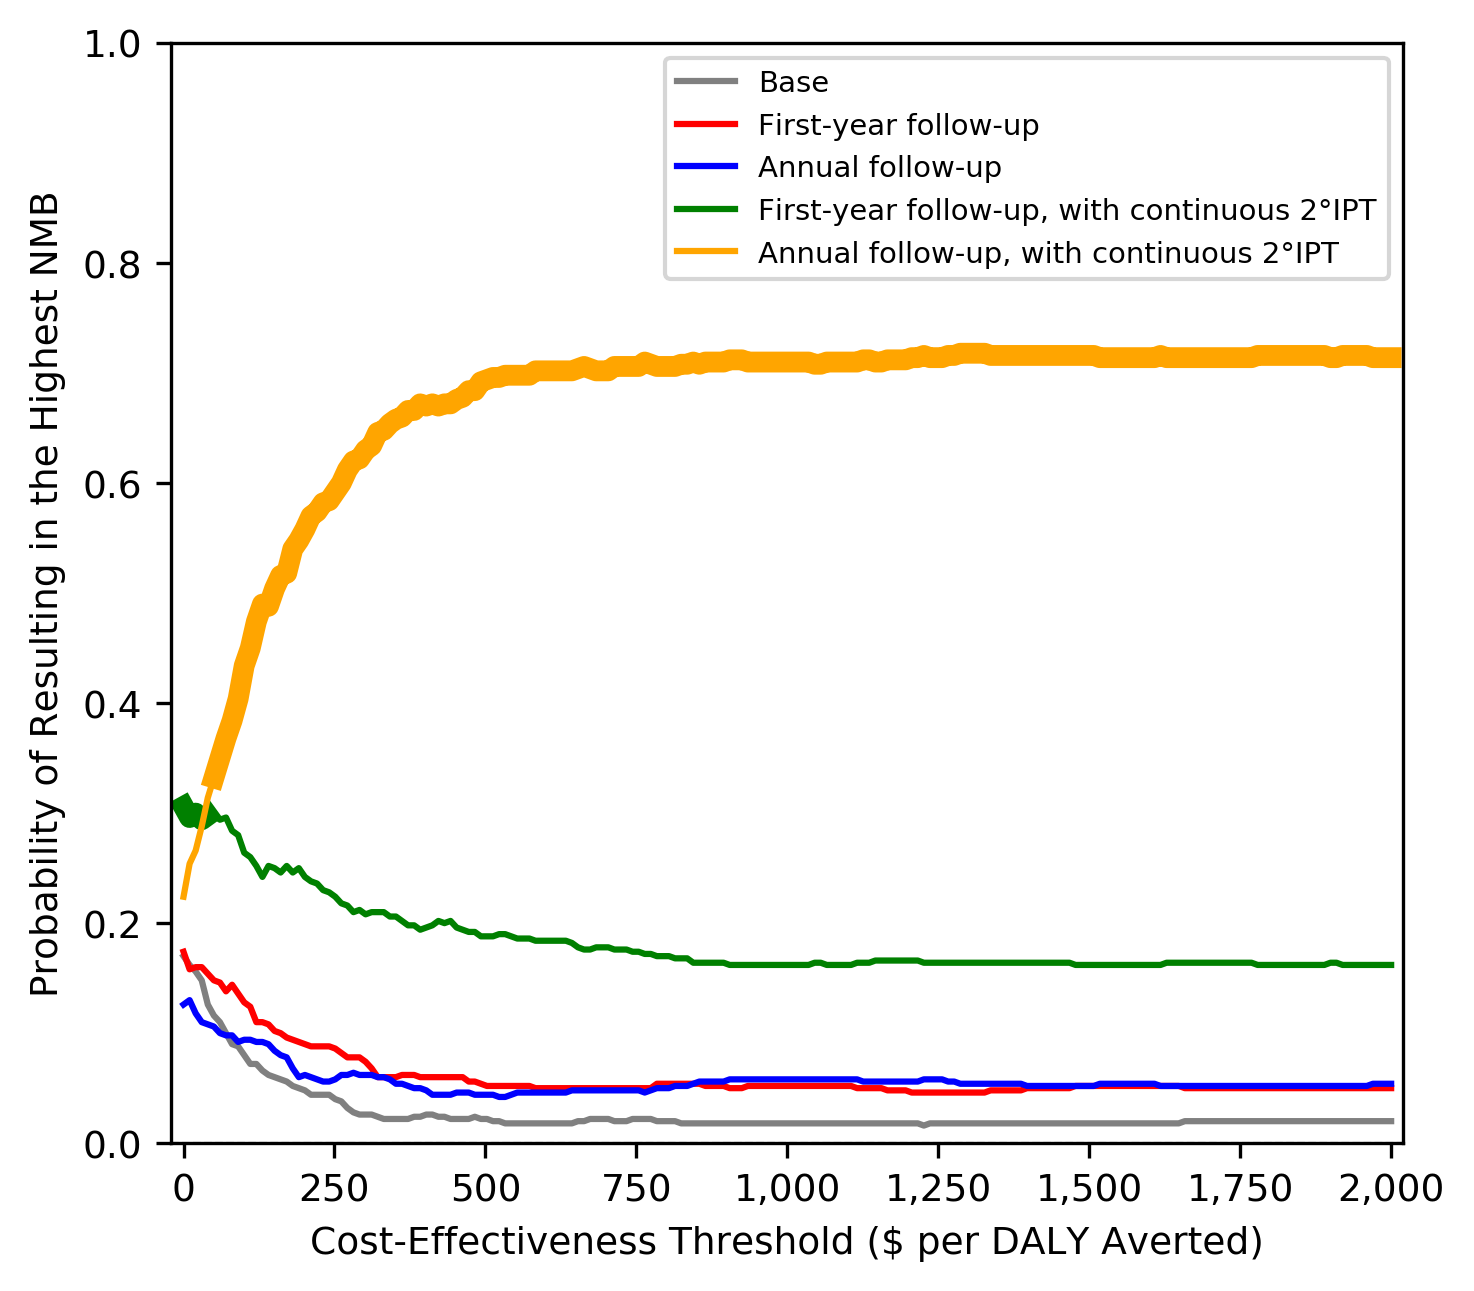
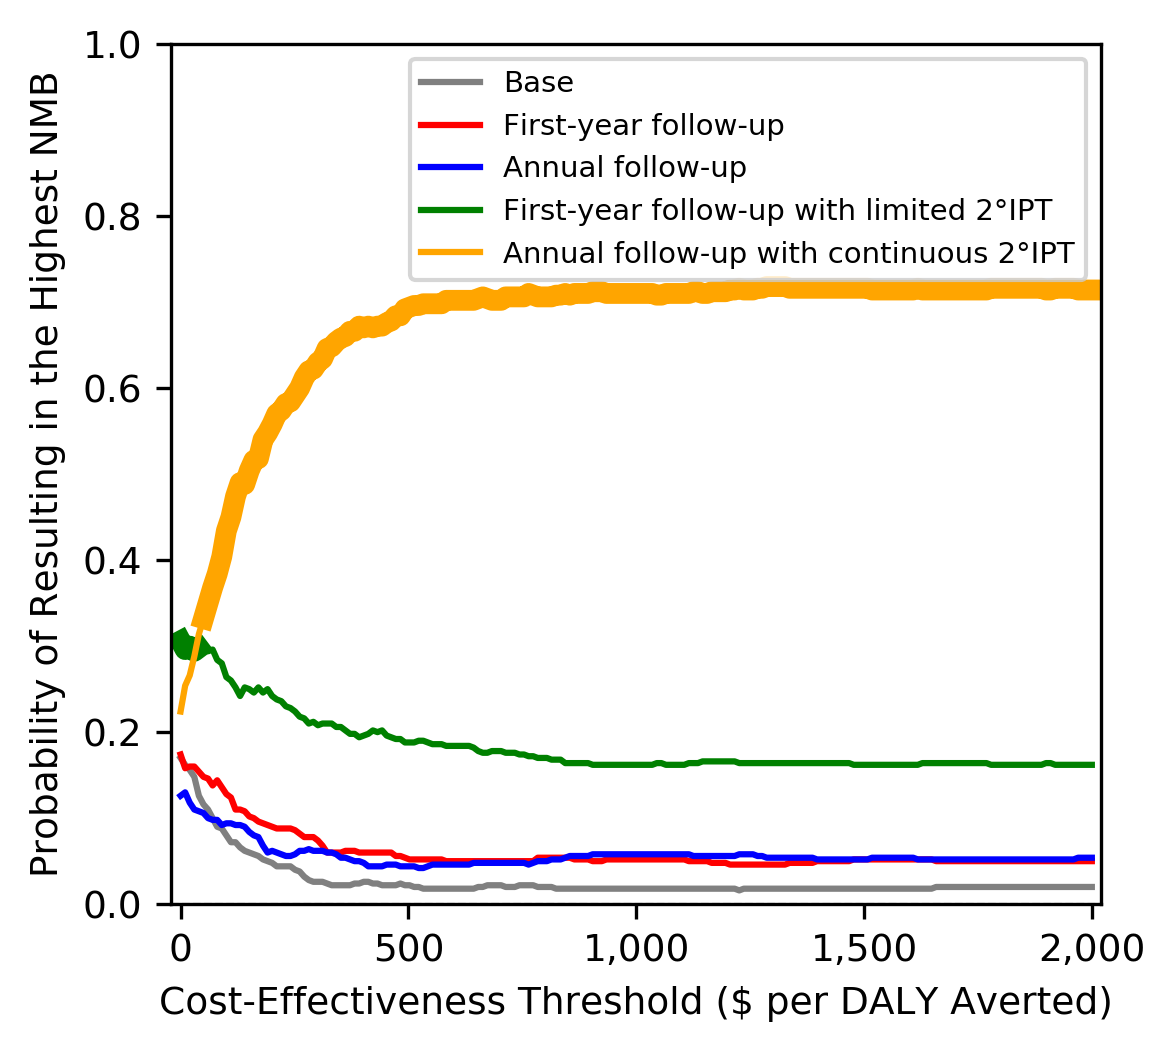
tb updated

Changed region(s): [[0.0, 0.0304, 0.9804, 0.9734]]

diff --git a/tb/TB_CEA.py b/tb/TB_CEA.py
@@ -41,7 +41,7 @@ def populate_cea():
                               if_included_in_label=True,
                               label_rules=[
                                   (0, ''),
-                                  (1, 'with continuous 2°IPT')]
+                                  (1, 'with 2°IPT')]
                               )
     ]
 
@@ -61,13 +61,14 @@ def populate_cea():
     ]
 
     # populate series
-    Cls.populate_sets_of_scenarios(series,
-                                   save_cea_results=True,
-                                   colors_of_scenarios=colors,
-                                   interval_type='p',
-                                   effect_multiplier=1,
-                                   cost_multiplier=1 / 1e3,
-                                   wtp_range=[0, 2000])
+    Cls.SetOfScenarios.populate_sets_of_scenarios(
+        series,
+        save_cea_results=True,
+        colors_of_scenarios=colors,
+        interval_type='p',
+        effect_multiplier=1,
+        cost_multiplier=1 / 1e3,
+        wtp_range=[0, 2000])
 
     # CBA
     #del series[0].CBA.strategies[1:3]
@@ -91,8 +92,13 @@ def populate_cea():
         x_label='Cost-Effectiveness Threshold ($ per DALY Averted)',
         y_label='Probability of Resulting in the Highest NMB',
         y_range=[0, 1],
-        figure_size=(5, 4.4),
-        file_name='figures_national/cea/CEAC ' + scenario_name + '.png'
+        figure_size=(4, 3.6),
+        legends=['Base',
+                 'First-year follow-up',
+                 'Annual follow-up',
+                 'First-year follow-up with limited 2°IPT',
+                 'Annual follow-up with continuous 2°IPT'],
+        file_name='figures/cea/CEAC ' + scenario_name + '.png'
     )
     print('WTP range with the highest probability of being optimal:')
     print(series[0].CBA.get_prob_highest_NMB_wtp_range())
@@ -187,7 +193,7 @@ def populate_cea():
     ax.axhline(y=0, linestyle='--', color='black', linewidth=.5)
 
     plt.tight_layout()
-    plt.savefig('figures_national/cea/'
+    plt.savefig('figures/cea/'
                 + 'CEA ' + scenario_name
                 + '.png', dpi=300)
 
@@ -214,7 +220,7 @@ def populate_cea():
         y_range=[-2000, 2000],
         column_titles=titles,
         row_titles=titles,
-        file_name='figures_national\pairwise_cea.png'
+        file_name='figures\pairwise_cea.png'
     )
 
 

diff --git a/apace/ScenariosClasses.py b/apace/ScenariosClasses.py
@@ -657,7 +657,7 @@ class SetOfScenarios:
 
         ax.set_title(title)
         if len(list_of_scenario_sets) > 1:
-            ax.legend(loc=2)
+            ax.legend(loc=2, fontsize='small')
 
         # x and y ranges
         if x_range is not None:
@@ -677,7 +677,8 @@ class SetOfScenarios:
                                    show_error_bars=False,
                                    wtp_multiplier=1,
                                    fig_size=None,
-                                   l_b_r_t=None):
+                                   l_b_r_t=None,
+                                   file_name=None):
 
         fig = plt.figure(figsize=fig_size)
         ax = fig.add_subplot(111)
@@ -701,8 +702,11 @@ class SetOfScenarios:
                             right=l_b_r_t[2],
                             top=l_b_r_t[3],)
 
-        fig.savefig('figures_national/' + Support.proper_file_name(title) + '.png', dpm=300) # read more about 'bbox_inches = "tight"'
-        fig.show()
+        if file_name is None:
+            fig.savefig(Support.proper_file_name(title) + '.png', dpm=300) # read more about 'bbox_inches = "tight"'
+        else:
+            fig.savefig(file_name + '.png', dpm=300)
+        #fig.show()
 
     @staticmethod
     def multi_plot_scenario_sets(list_of_plots,
@@ -714,7 +718,6 @@ class SetOfScenarios:
                                  y_range=None,
                                  show_error_bars=False,
                                  wtp_multiplier=1,
-                                 success_A_or_B_per_lifespan=1,
                                  fig_size=(7.5, 3),
                                  l_b_r_t=None):
 
@@ -762,12 +765,11 @@ class SetOfScenarios:
 
     @staticmethod
     def get_expected_diff_from_origin(list_of_scenario_sets,
-                                  degree=2, interval='p',
-                                  outcome_to_project=''):
+                                      degree=2):
 
         # fit curves
         for set_of_scenario in list_of_scenario_sets:
-            set_of_scenario.fit_curves(degree=degree)
+            #set_of_scenario.fit_curves(degree=degree)
             set_of_scenario.fit_curve(degree=degree)
 
         # expected difference

diff --git a/apace/VisualizeScenarios.py b/apace/VisualizeScenarios.py
@@ -10,7 +10,8 @@ def plot_sets_of_scenarios(list_of_scenario_sets,
                            labels=('', ''),
                            title='fig.png',
                            fig_size=None,
-                           l_b_r_t=None):
+                           l_b_r_t=None,
+                           file_name=None):
     """
     :param list_of_scenario_sets: (list) of sets of scenarios to display on the CE plane
     :param x_range: x range
@@ -22,6 +23,7 @@ def plot_sets_of_scenarios(list_of_scenario_sets,
     :param labels: (tuple) x_ and y-axis labels
     :param title: (string) title of the graph
     :param fig_size: (tuple) figure size
+    :param file_name: (string) file name
     """
 
     # populate series
@@ -45,7 +47,8 @@ def plot_sets_of_scenarios(list_of_scenario_sets,
         show_error_bars=True,
         wtp_multiplier=wtp_multiplier,
         fig_size=fig_size,
-        l_b_r_t=l_b_r_t)
+        l_b_r_t=l_b_r_t,
+        file_name=file_name)
 
 
 def multi_plot_series(list_list_series,
@@ -58,8 +61,7 @@ def multi_plot_series(list_list_series,
                       labels=('', ''),
                       fig_size=None,
                       l_b_r_t=None,
-                      file_name='fig.png',
-                      success_A_or_B_per_lifespan=1):
+                      file_name='fig.png'):
     """
     :param list_list_series: (list) of list of series to display on the multiple CE plane
     :param x_range: x range
@@ -94,7 +96,6 @@ def multi_plot_series(list_list_series,
         y_range=y_range,
         show_error_bars=True,
         wtp_multiplier=wtp_multiplier,
-        success_A_or_B_per_lifespan=success_A_or_B_per_lifespan,
         fig_size=fig_size,
         l_b_r_t=l_b_r_t
     )
